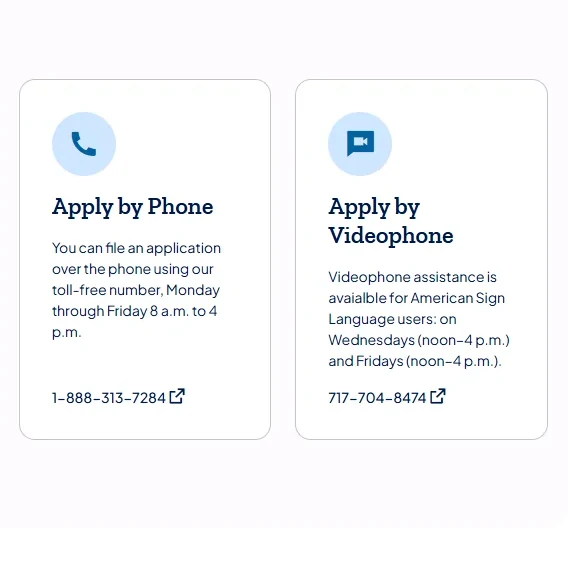
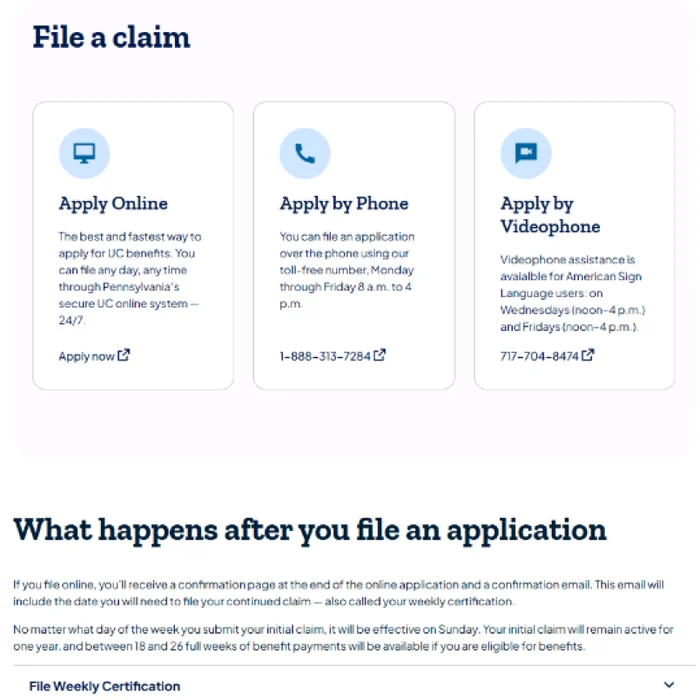
PA.gov: sharper unemployment service and file-a-claim screens (2x)
Claude-Session: https://claude.ai/code/session_01P9QZ9wtkJqyZXJU2jAnhQ7

diff --git a/index.html b/index.html
@@ -123,8 +123,8 @@ if(localStorage.getItem(k)){window.goatcounter={no_onload:true};var s=document.c
               <div class="car-slide fit" data-title="Services first, one template per agency" data-desc="A simplified site map. Services are the main way in, with content supplied by agencies, and every agency gets the same landing page with the same seven sections."><picture><source media="(max-width:640px)" srcset="assets/img/pa-0b-sitemap-m.webp?v=2"><img src="assets/img/pa-0b-sitemap.webp?v=2" width="5920" height="3752" alt="Conceptual site map in three columns: services first, with a service list, service finder, and service detail pages; an agency directory and a standard agency landing page with seven sections; and utilities and policies." loading="lazy" decoding="async"></picture></div>
               <div class="car-slide" data-title="Search that starts from the resident" data-desc="Life-event filters sit beside agency and service type. Someone who just lost a job sees services from every agency at once."><picture><source media="(max-width:640px)" srcset="assets/img/pa-1-search-m.webp"><img src="assets/img/pa-1-search.webp" width="1200" height="900" alt="PA.gov Find Services page with the life-event filters Finding a Job and Navigating Unemployment applied, showing 74 results from several agencies." loading="lazy" decoding="async"></picture></div>
               <div class="car-slide" data-title="Tags instead of folders" data-desc="Each service carries tags for its agency, topic, and life events, so one page shows up wherever a resident might look for it."><picture><source media="(max-width:640px)" srcset="assets/img/pa-2-tags-m.webp"><img src="assets/img/pa-2-tags.webp" width="910" height="682" alt="Search results on PA.gov, each tagged with its agency, topics, and life events such as Finding a Job and Adopting a Child." loading="lazy" decoding="async"></picture></div>
-              <div class="car-slide" data-title="One pattern for every service" data-desc="Service pages open with what the service is and how to start, then an on-page guide to eligibility, filing, and next steps."><picture><source media="(max-width:640px)" srcset="assets/img/pa-3-service-m.webp"><img src="assets/img/pa-3-service.webp" width="1200" height="900" alt="PA.gov service page for unemployment compensation, with File a claim and Reopen a claim buttons and an On this page guide." loading="lazy" decoding="async"></picture></div>
-              <div class="car-slide" data-title="Clear ways to act" data-desc="The options to apply sit side by side: online, by phone, or by videophone for people who use sign language."><picture><source media="(max-width:640px)" srcset="assets/img/pa-4-apply-m.webp"><img src="assets/img/pa-4-apply.webp" width="890" height="668" alt="PA.gov File a claim section with three cards: Apply Online, Apply by Phone, and Apply by Videophone." loading="lazy" decoding="async"></picture></div>
+              <div class="car-slide" data-title="One pattern for every service" data-desc="Service pages open with what the service is and how to start, then an on-page guide to eligibility, filing, and next steps."><picture><source media="(max-width:640px)" srcset="assets/img/pa-3-service-m.webp?v=2"><img src="assets/img/pa-3-service.webp?v=2" width="2400" height="1800" alt="The full PA.gov service page for unemployment compensation in miniature, beside a close-up of its top: a short description, File a claim and Reopen a claim buttons, an On this page guide, and a list of additional resources." loading="lazy" decoding="async"></picture></div>
+              <div class="car-slide" data-title="Clear ways to act" data-desc="The options to apply sit side by side: online, by phone, or by videophone for people who use sign language."><picture><source media="(max-width:640px)" srcset="assets/img/pa-4-apply-m.webp?v=2"><img src="assets/img/pa-4-apply.webp?v=2" width="2400" height="1800" alt="The same service page further down, with a close-up of the File a claim section: three cards for Apply Online, Apply by Phone, and Apply by Videophone, followed by what happens after you apply." loading="lazy" decoding="async"></picture></div>
             </div>
             <div class="car-info">
               <div class="car-text" aria-live="polite">
